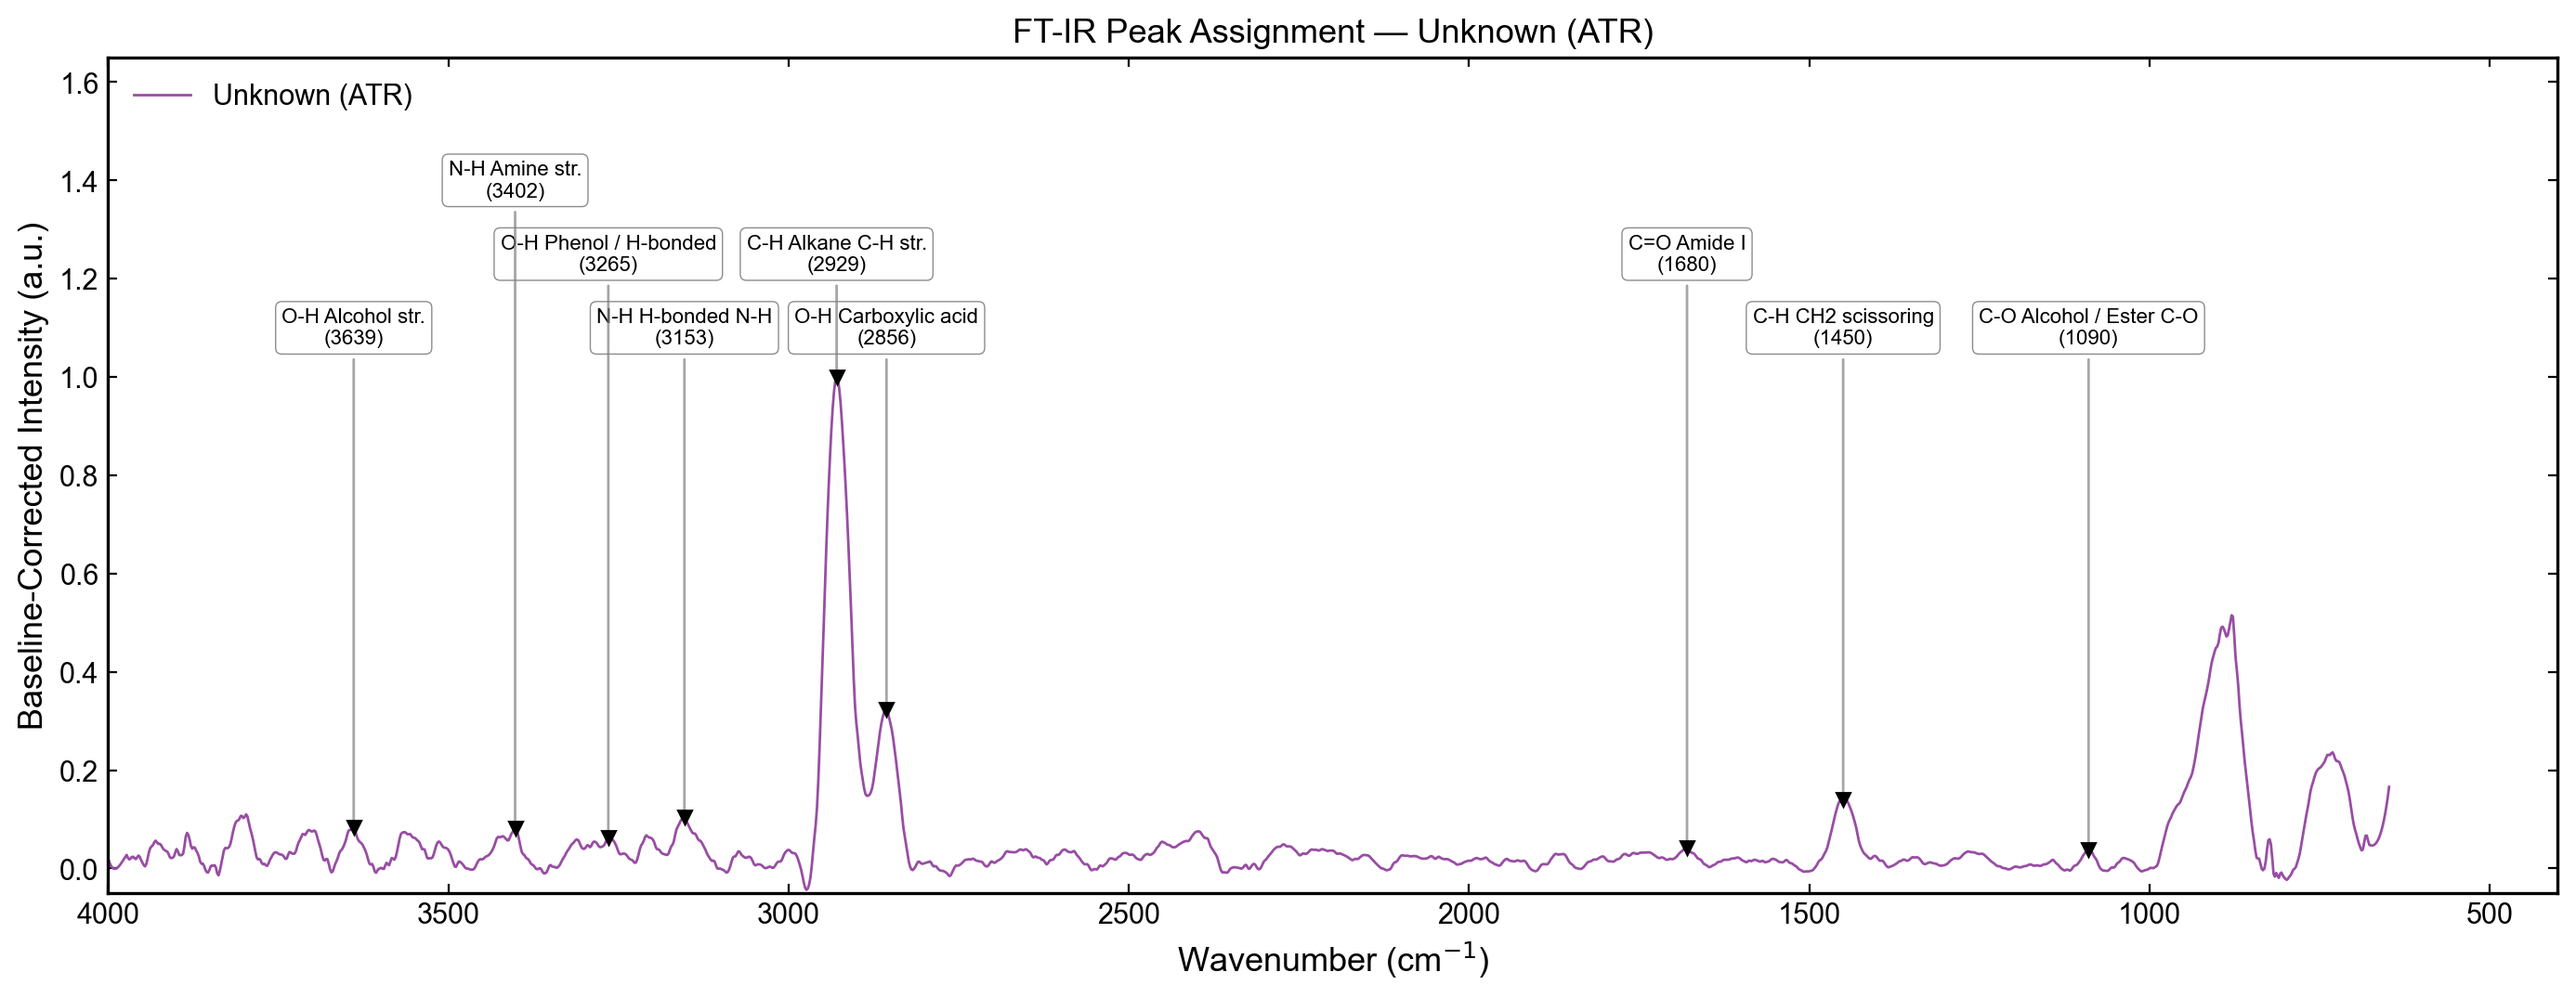
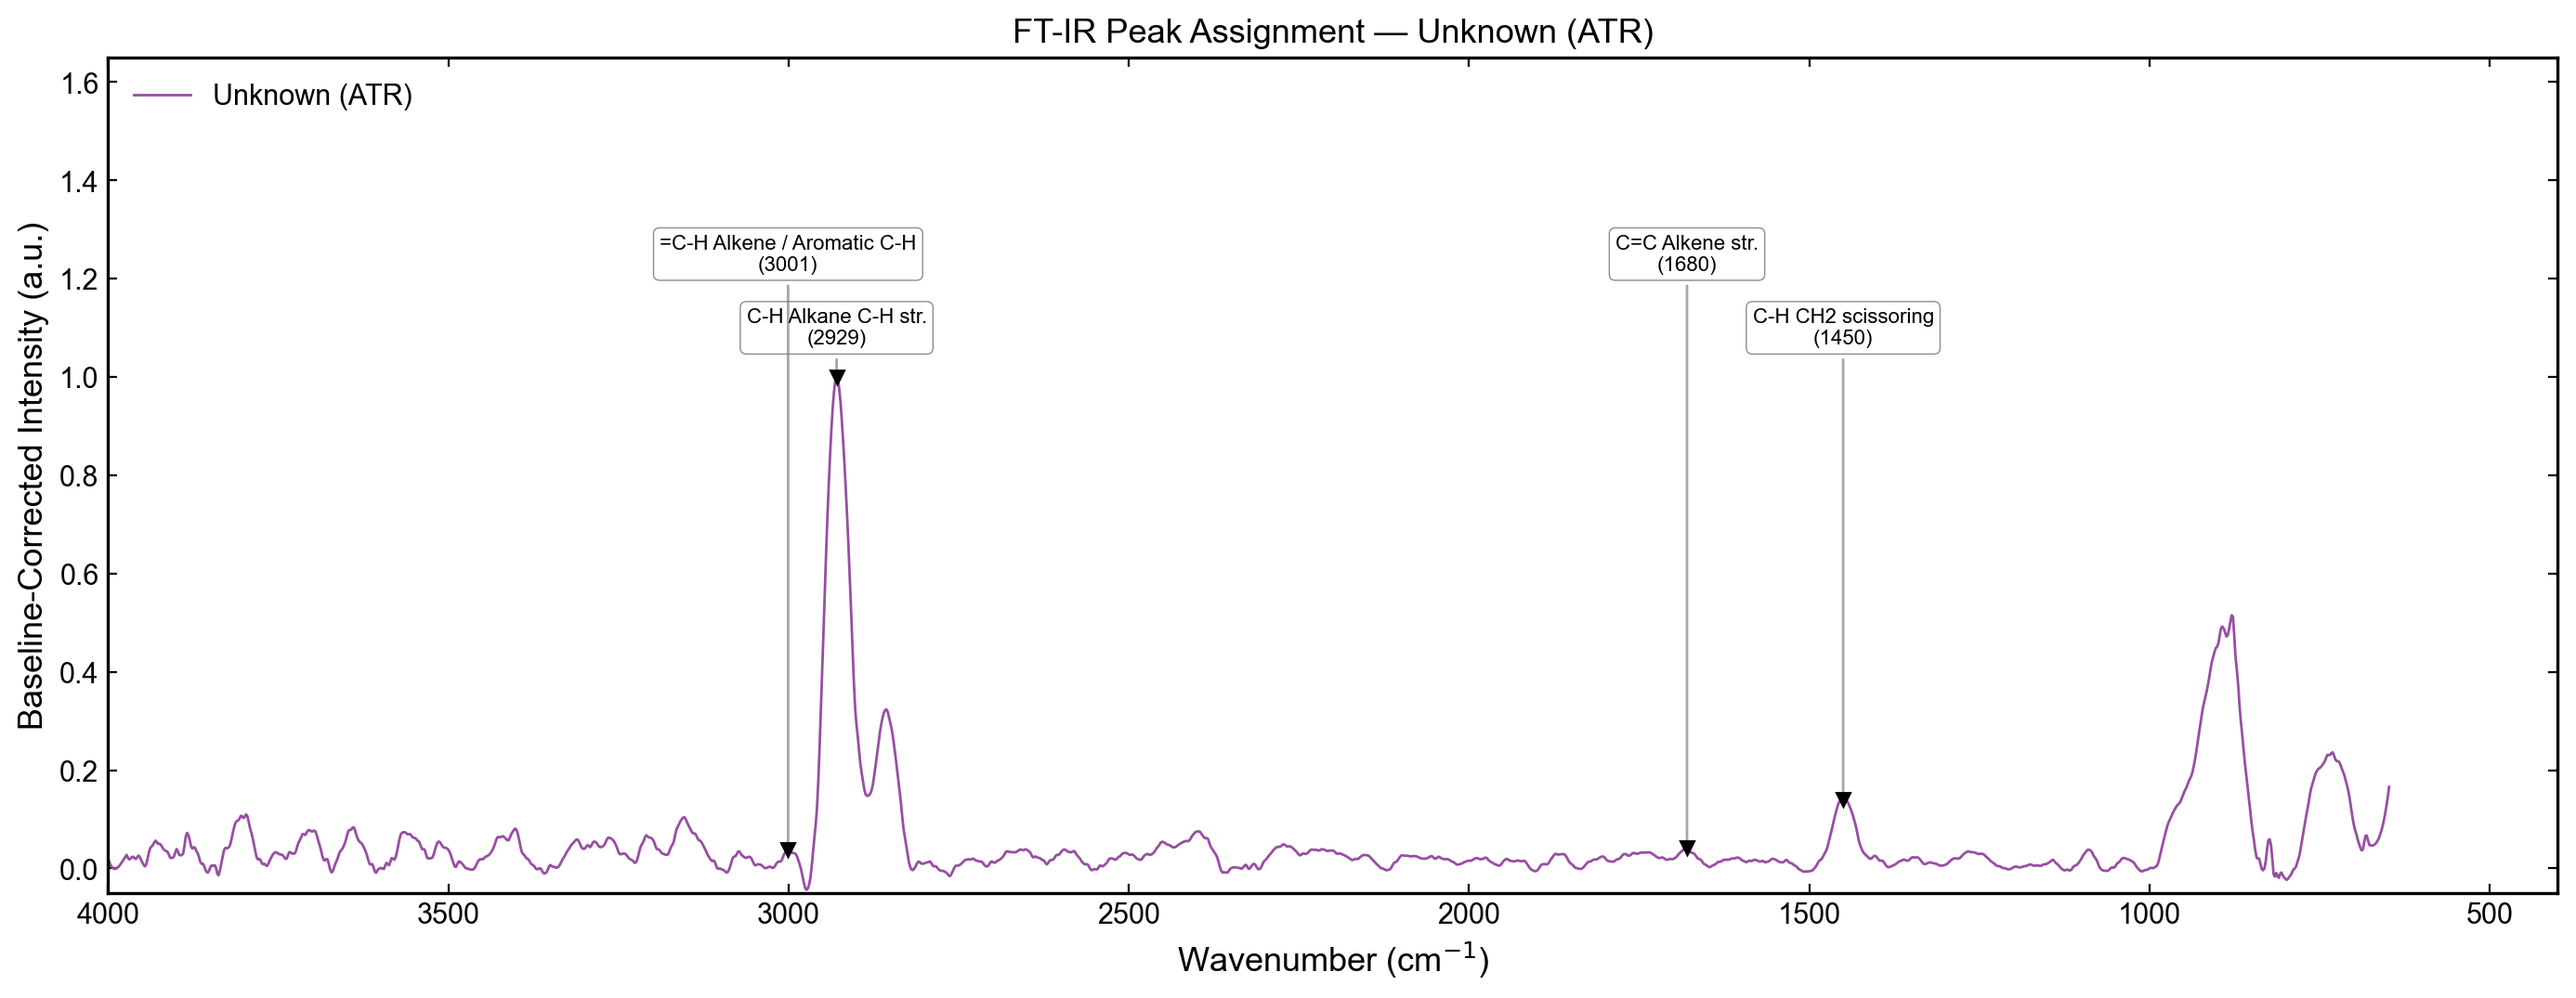
ATR fixed

diff --git a/tag_peaks.py b/tag_peaks.py
@@ -245,15 +245,22 @@ def assign_peak(peak_wn, sample_name=""):
     
     exclude_N = (sample_name == "GO")
     exclude_O = (sample_name == "PEI")
-    
+    # ATR candidates (cyclohexane, n-heptane, trans-2-butene, 1-butyne) are all C,H only
+    ch_only = ("ATR" in sample_name)
+
+    # Bonds allowed for C,H-only molecules
+    CH_BONDS = {"C-H", "=C-H", "C=C", "C≡C", "CH2", "CH3", "Ring"}
+
     for band in BANDS:
         bond = band[3]
         desc = band[4]
-        
+
         # Enforce chemical formula constraints
         if exclude_N and ("N" in bond or "Amide" in desc or "Amine" in desc or "Nitrile" in desc):
             continue
         if exclude_O and ("O" in bond or "Acid" in desc or "Alcohol" in desc or "Ester" in desc or "Aldehyde" in desc or "Phenol" in desc or "Epoxy" in desc):
+            continue
+        if ch_only and bond not in CH_BONDS:
             continue
             
         s = score_assignment(peak_wn, band)
